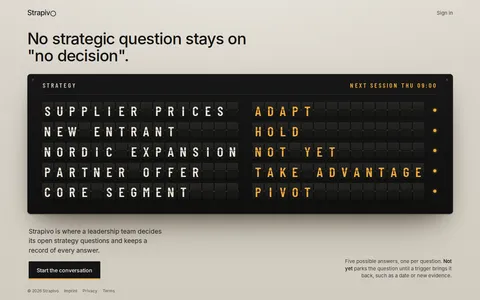
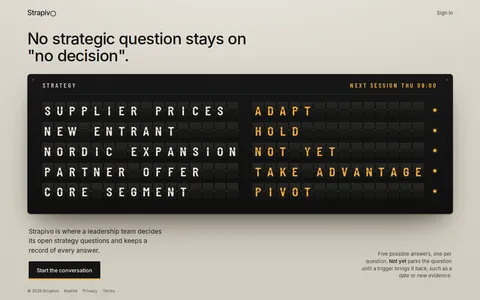
Update landing concept 87-departure-board

diff --git a/landings/87-departure-board/index.html b/landings/87-departure-board/index.html
@@ -59,7 +59,8 @@ h1{font-weight:500;font-size:clamp(30px,3.3vw,48px);line-height:1.08;letter-spac
 .h{position:absolute;left:0;right:0;height:50%;overflow:hidden;backface-visibility:hidden}
 .t{top:0;border-radius:3px 3px 0 0;background:linear-gradient(#262624,#1d1d1b)}
 .b{bottom:0;border-radius:0 0 3px 3px;background:linear-gradient(#1a1a18,#141413)}
-.h i{position:absolute;left:0;right:0;height:200%;font-style:normal;padding-top:calc(var(--h)*.04)}
+.h i,.b[data-c]::before{position:absolute;left:0;right:0;height:200%;font-style:normal;padding-top:calc(var(--h)*.04)}
+.b[data-c]::before{content:attr(data-c);bottom:0}
 .t i{top:0}.b i{bottom:0}
 .c::after{content:"";position:absolute;left:0;right:0;top:calc(50% - 1px);height:2px;background:linear-gradient(#000 50%,rgba(255,255,255,.05) 50%);z-index:6}
 .c::before{content:"";position:absolute;left:-1px;right:-1px;top:calc(50% - 2px);height:4px;z-index:7;
@@ -73,8 +74,8 @@ h1{font-weight:500;font-size:clamp(30px,3.3vw,48px);line-height:1.08;letter-spac
 .cta{display:inline-block;background:var(--ink);color:#f3efe6;text-decoration:none;font-weight:500;font-size:16px;padding:15px 24px;border-radius:2px;
   box-shadow:inset 0 -3px 0 var(--amber)}
 .cta:hover{background:#2a2925}
-.note{margin:0;font-size:15px;line-height:1.45;color:var(--mute);max-width:36ch;text-align:right}
-.note em{font-style:normal;color:var(--ink);font-weight:500}
+.note{margin:0;font-size:15px;line-height:1.45;color:var(--mute);max-width:32ch;text-align:right}
+.note em{white-space:nowrap;font-style:normal;color:var(--ink);font-weight:500}
 footer{padding:26px 0 18px;font-size:12px;color:#5a564f;display:flex;gap:16px;flex-wrap:wrap}
 footer a{text-decoration:none}
 footer a:hover{text-decoration:underline}
@@ -109,11 +110,11 @@ footer a:hover{text-decoration:underline}
     <div aria-hidden="true">
       <div class="hd"><span>STRATEGY</span><span class="nx">NEXT SESSION THU 09:00</span></div>
       <div class="rows">
-<div class="row" data-q="SUPPLIER PRICES" data-a="ADAPT"><span class="q"><span class="c"><span class="h t"><i>S</i></span><span class="h b"><i>S</i></span></span><span class="c"><span class="h t"><i>U</i></span><span class="h b"><i>U</i></span></span><span class="c"><span class="h t"><i>P</i></span><span class="h b"><i>P</i></span></span><span class="c"><span class="h t"><i>P</i></span><span class="h b"><i>P</i></span></span><span class="c"><span class="h t"><i>L</i></span><span class="h b"><i>L</i></span></span><span class="c"><span class="h t"><i>I</i></span><span class="h b"><i>I</i></span></span><span class="c"><span class="h t"><i>E</i></span><span class="h b"><i>E</i></span></span><span class="c"><span class="h t"><i>R</i></span><span class="h b"><i>R</i></span></span><span class="c"><span class="h t"><i>&nbsp;</i></span><span class="h b"><i>&nbsp;</i></span></span><span class="c"><span class="h t"><i>P</i></span><span class="h b"><i>P</i></span></span><span class="c"><span class="h t"><i>R</i></span><span class="h b"><i>R</i></span></span><span class="c"><span class="h t"><i>I</i></span><span class="h b"><i>I</i></span></span><span class="c"><span class="h t"><i>C</i></span><span class="h b"><i>C</i></span></span><span class="c"><span class="h t"><i>E</i></span><span class="h b"><i>E</i></span></span><span class="c"><span class="h t"><i>S</i></span><span class="h b"><i>S</i></span></span><span class="c"><span class="h t"><i>&nbsp;</i></span><span class="h b"><i>&nbsp;</i></span></span></span><span class="s"><span class="c"><span class="h t"><i>A</i></span><span class="h b"><i>A</i></span></span><span class="c"><span class="h t"><i>D</i></span><span class="h b"><i>D</i></span></span><span class="c"><span class="h t"><i>A</i></span><span class="h b"><i>A</i></span></span><span class="c"><span class="h t"><i>P</i></span><span class="h b"><i>P</i></span></span><span class="c"><span class="h t"><i>T</i></span><span class="h b"><i>T</i></span></span><span class="c"><span class="h t"><i>&nbsp;</i></span><span class="h b"><i>&nbsp;</i></span></span><span class="c"><span class="h t"><i>&nbsp;</i></span><span class="h b"><i>&nbsp;</i></span></span><span class="c"><span class="h t"><i>&nbsp;</i></span><span class="h b"><i>&nbsp;</i></span></span><span class="c"><span class="h t"><i>&nbsp;</i></span><span class="h b"><i>&nbsp;</i></span></span><span class="c"><span class="h t"><i>&nbsp;</i></span><span class="h b"><i>&nbsp;</i></span></span><span class="c"><span class="h t"><i>&nbsp;</i></span><span class="h b"><i>&nbsp;</i></span></span><span class="c"><span class="h t"><i>&nbsp;</i></span><span class="h b"><i>&nbsp;</i></span></span><span class="c"><span class="h t"><i>&nbsp;</i></span><span class="h b"><i>&nbsp;</i></span></span><span class="c"><span class="h t"><i>&nbsp;</i></span><span class="h b"><i>&nbsp;</i></span></span></span><span class="led on"></span></div>
-<div class="row" data-q="NEW ENTRANT" data-a="HOLD"><span class="q"><span class="c"><span class="h t"><i>N</i></span><span class="h b"><i>N</i></span></span><span class="c"><span class="h t"><i>E</i></span><span class="h b"><i>E</i></span></span><span class="c"><span class="h t"><i>W</i></span><span class="h b"><i>W</i></span></span><span class="c"><span class="h t"><i>&nbsp;</i></span><span class="h b"><i>&nbsp;</i></span></span><span class="c"><span class="h t"><i>E</i></span><span class="h b"><i>E</i></span></span><span class="c"><span class="h t"><i>N</i></span><span class="h b"><i>N</i></span></span><span class="c"><span class="h t"><i>T</i></span><span class="h b"><i>T</i></span></span><span class="c"><span class="h t"><i>R</i></span><span class="h b"><i>R</i></span></span><span class="c"><span class="h t"><i>A</i></span><span class="h b"><i>A</i></span></span><span class="c"><span class="h t"><i>N</i></span><span class="h b"><i>N</i></span></span><span class="c"><span class="h t"><i>T</i></span><span class="h b"><i>T</i></span></span><span class="c"><span class="h t"><i>&nbsp;</i></span><span class="h b"><i>&nbsp;</i></span></span><span class="c"><span class="h t"><i>&nbsp;</i></span><span class="h b"><i>&nbsp;</i></span></span><span class="c"><span class="h t"><i>&nbsp;</i></span><span class="h b"><i>&nbsp;</i></span></span><span class="c"><span class="h t"><i>&nbsp;</i></span><span class="h b"><i>&nbsp;</i></span></span><span class="c"><span class="h t"><i>&nbsp;</i></span><span class="h b"><i>&nbsp;</i></span></span></span><span class="s"><span class="c"><span class="h t"><i>H</i></span><span class="h b"><i>H</i></span></span><span class="c"><span class="h t"><i>O</i></span><span class="h b"><i>O</i></span></span><span class="c"><span class="h t"><i>L</i></span><span class="h b"><i>L</i></span></span><span class="c"><span class="h t"><i>D</i></span><span class="h b"><i>D</i></span></span><span class="c"><span class="h t"><i>&nbsp;</i></span><span class="h b"><i>&nbsp;</i></span></span><span class="c"><span class="h t"><i>&nbsp;</i></span><span class="h b"><i>&nbsp;</i></span></span><span class="c"><span class="h t"><i>&nbsp;</i></span><span class="h b"><i>&nbsp;</i></span></span><span class="c"><span class="h t"><i>&nbsp;</i></span><span class="h b"><i>&nbsp;</i></span></span><span class="c"><span class="h t"><i>&nbsp;</i></span><span class="h b"><i>&nbsp;</i></span></span><span class="c"><span class="h t"><i>&nbsp;</i></span><span class="h b"><i>&nbsp;</i></span></span><span class="c"><span class="h t"><i>&nbsp;</i></span><span class="h b"><i>&nbsp;</i></span></span><span class="c"><span class="h t"><i>&nbsp;</i></span><span class="h b"><i>&nbsp;</i></span></span><span class="c"><span class="h t"><i>&nbsp;</i></span><span class="h b"><i>&nbsp;</i></span></span><span class="c"><span class="h t"><i>&nbsp;</i></span><span class="h b"><i>&nbsp;</i></span></span></span><span class="led on"></span></div>
-<div class="row" data-q="NORDIC EXPANSION" data-a="NOT YET"><span class="q"><span class="c"><span class="h t"><i>N</i></span><span class="h b"><i>N</i></span></span><span class="c"><span class="h t"><i>O</i></span><span class="h b"><i>O</i></span></span><span class="c"><span class="h t"><i>R</i></span><span class="h b"><i>R</i></span></span><span class="c"><span class="h t"><i>D</i></span><span class="h b"><i>D</i></span></span><span class="c"><span class="h t"><i>I</i></span><span class="h b"><i>I</i></span></span><span class="c"><span class="h t"><i>C</i></span><span class="h b"><i>C</i></span></span><span class="c"><span class="h t"><i>&nbsp;</i></span><span class="h b"><i>&nbsp;</i></span></span><span class="c"><span class="h t"><i>E</i></span><span class="h b"><i>E</i></span></span><span class="c"><span class="h t"><i>X</i></span><span class="h b"><i>X</i></span></span><span class="c"><span class="h t"><i>P</i></span><span class="h b"><i>P</i></span></span><span class="c"><span class="h t"><i>A</i></span><span class="h b"><i>A</i></span></span><span class="c"><span class="h t"><i>N</i></span><span class="h b"><i>N</i></span></span><span class="c"><span class="h t"><i>S</i></span><span class="h b"><i>S</i></span></span><span class="c"><span class="h t"><i>I</i></span><span class="h b"><i>I</i></span></span><span class="c"><span class="h t"><i>O</i></span><span class="h b"><i>O</i></span></span><span class="c"><span class="h t"><i>N</i></span><span class="h b"><i>N</i></span></span></span><span class="s"><span class="c"><span class="h t"><i>N</i></span><span class="h b"><i>N</i></span></span><span class="c"><span class="h t"><i>O</i></span><span class="h b"><i>O</i></span></span><span class="c"><span class="h t"><i>T</i></span><span class="h b"><i>T</i></span></span><span class="c"><span class="h t"><i>&nbsp;</i></span><span class="h b"><i>&nbsp;</i></span></span><span class="c"><span class="h t"><i>Y</i></span><span class="h b"><i>Y</i></span></span><span class="c"><span class="h t"><i>E</i></span><span class="h b"><i>E</i></span></span><span class="c"><span class="h t"><i>T</i></span><span class="h b"><i>T</i></span></span><span class="c"><span class="h t"><i>&nbsp;</i></span><span class="h b"><i>&nbsp;</i></span></span><span class="c"><span class="h t"><i>&nbsp;</i></span><span class="h b"><i>&nbsp;</i></span></span><span class="c"><span class="h t"><i>&nbsp;</i></span><span class="h b"><i>&nbsp;</i></span></span><span class="c"><span class="h t"><i>&nbsp;</i></span><span class="h b"><i>&nbsp;</i></span></span><span class="c"><span class="h t"><i>&nbsp;</i></span><span class="h b"><i>&nbsp;</i></span></span><span class="c"><span class="h t"><i>&nbsp;</i></span><span class="h b"><i>&nbsp;</i></span></span><span class="c"><span class="h t"><i>&nbsp;</i></span><span class="h b"><i>&nbsp;</i></span></span></span><span class="led on"></span></div>
-<div class="row" data-q="PARTNER OFFER" data-a="TAKE ADVANTAGE"><span class="q"><span class="c"><span class="h t"><i>P</i></span><span class="h b"><i>P</i></span></span><span class="c"><span class="h t"><i>A</i></span><span class="h b"><i>A</i></span></span><span class="c"><span class="h t"><i>R</i></span><span class="h b"><i>R</i></span></span><span class="c"><span class="h t"><i>T</i></span><span class="h b"><i>T</i></span></span><span class="c"><span class="h t"><i>N</i></span><span class="h b"><i>N</i></span></span><span class="c"><span class="h t"><i>E</i></span><span class="h b"><i>E</i></span></span><span class="c"><span class="h t"><i>R</i></span><span class="h b"><i>R</i></span></span><span class="c"><span class="h t"><i>&nbsp;</i></span><span class="h b"><i>&nbsp;</i></span></span><span class="c"><span class="h t"><i>O</i></span><span class="h b"><i>O</i></span></span><span class="c"><span class="h t"><i>F</i></span><span class="h b"><i>F</i></span></span><span class="c"><span class="h t"><i>F</i></span><span class="h b"><i>F</i></span></span><span class="c"><span class="h t"><i>E</i></span><span class="h b"><i>E</i></span></span><span class="c"><span class="h t"><i>R</i></span><span class="h b"><i>R</i></span></span><span class="c"><span class="h t"><i>&nbsp;</i></span><span class="h b"><i>&nbsp;</i></span></span><span class="c"><span class="h t"><i>&nbsp;</i></span><span class="h b"><i>&nbsp;</i></span></span><span class="c"><span class="h t"><i>&nbsp;</i></span><span class="h b"><i>&nbsp;</i></span></span></span><span class="s"><span class="c"><span class="h t"><i>T</i></span><span class="h b"><i>T</i></span></span><span class="c"><span class="h t"><i>A</i></span><span class="h b"><i>A</i></span></span><span class="c"><span class="h t"><i>K</i></span><span class="h b"><i>K</i></span></span><span class="c"><span class="h t"><i>E</i></span><span class="h b"><i>E</i></span></span><span class="c"><span class="h t"><i>&nbsp;</i></span><span class="h b"><i>&nbsp;</i></span></span><span class="c"><span class="h t"><i>A</i></span><span class="h b"><i>A</i></span></span><span class="c"><span class="h t"><i>D</i></span><span class="h b"><i>D</i></span></span><span class="c"><span class="h t"><i>V</i></span><span class="h b"><i>V</i></span></span><span class="c"><span class="h t"><i>A</i></span><span class="h b"><i>A</i></span></span><span class="c"><span class="h t"><i>N</i></span><span class="h b"><i>N</i></span></span><span class="c"><span class="h t"><i>T</i></span><span class="h b"><i>T</i></span></span><span class="c"><span class="h t"><i>A</i></span><span class="h b"><i>A</i></span></span><span class="c"><span class="h t"><i>G</i></span><span class="h b"><i>G</i></span></span><span class="c"><span class="h t"><i>E</i></span><span class="h b"><i>E</i></span></span></span><span class="led on"></span></div>
-<div class="row" data-q="CORE SEGMENT" data-a="PIVOT"><span class="q"><span class="c"><span class="h t"><i>C</i></span><span class="h b"><i>C</i></span></span><span class="c"><span class="h t"><i>O</i></span><span class="h b"><i>O</i></span></span><span class="c"><span class="h t"><i>R</i></span><span class="h b"><i>R</i></span></span><span class="c"><span class="h t"><i>E</i></span><span class="h b"><i>E</i></span></span><span class="c"><span class="h t"><i>&nbsp;</i></span><span class="h b"><i>&nbsp;</i></span></span><span class="c"><span class="h t"><i>S</i></span><span class="h b"><i>S</i></span></span><span class="c"><span class="h t"><i>E</i></span><span class="h b"><i>E</i></span></span><span class="c"><span class="h t"><i>G</i></span><span class="h b"><i>G</i></span></span><span class="c"><span class="h t"><i>M</i></span><span class="h b"><i>M</i></span></span><span class="c"><span class="h t"><i>E</i></span><span class="h b"><i>E</i></span></span><span class="c"><span class="h t"><i>N</i></span><span class="h b"><i>N</i></span></span><span class="c"><span class="h t"><i>T</i></span><span class="h b"><i>T</i></span></span><span class="c"><span class="h t"><i>&nbsp;</i></span><span class="h b"><i>&nbsp;</i></span></span><span class="c"><span class="h t"><i>&nbsp;</i></span><span class="h b"><i>&nbsp;</i></span></span><span class="c"><span class="h t"><i>&nbsp;</i></span><span class="h b"><i>&nbsp;</i></span></span><span class="c"><span class="h t"><i>&nbsp;</i></span><span class="h b"><i>&nbsp;</i></span></span></span><span class="s"><span class="c"><span class="h t"><i>P</i></span><span class="h b"><i>P</i></span></span><span class="c"><span class="h t"><i>I</i></span><span class="h b"><i>I</i></span></span><span class="c"><span class="h t"><i>V</i></span><span class="h b"><i>V</i></span></span><span class="c"><span class="h t"><i>O</i></span><span class="h b"><i>O</i></span></span><span class="c"><span class="h t"><i>T</i></span><span class="h b"><i>T</i></span></span><span class="c"><span class="h t"><i>&nbsp;</i></span><span class="h b"><i>&nbsp;</i></span></span><span class="c"><span class="h t"><i>&nbsp;</i></span><span class="h b"><i>&nbsp;</i></span></span><span class="c"><span class="h t"><i>&nbsp;</i></span><span class="h b"><i>&nbsp;</i></span></span><span class="c"><span class="h t"><i>&nbsp;</i></span><span class="h b"><i>&nbsp;</i></span></span><span class="c"><span class="h t"><i>&nbsp;</i></span><span class="h b"><i>&nbsp;</i></span></span><span class="c"><span class="h t"><i>&nbsp;</i></span><span class="h b"><i>&nbsp;</i></span></span><span class="c"><span class="h t"><i>&nbsp;</i></span><span class="h b"><i>&nbsp;</i></span></span><span class="c"><span class="h t"><i>&nbsp;</i></span><span class="h b"><i>&nbsp;</i></span></span><span class="c"><span class="h t"><i>&nbsp;</i></span><span class="h b"><i>&nbsp;</i></span></span></span><span class="led on"></span></div>
+<div class="row" data-q="SUPPLIER PRICES" data-a="ADAPT"><span class="q"><span class="c"><span class="h t"><i>S</i></span><span class="h b" data-c="S"></span></span><span class="c"><span class="h t"><i>U</i></span><span class="h b" data-c="U"></span></span><span class="c"><span class="h t"><i>P</i></span><span class="h b" data-c="P"></span></span><span class="c"><span class="h t"><i>P</i></span><span class="h b" data-c="P"></span></span><span class="c"><span class="h t"><i>L</i></span><span class="h b" data-c="L"></span></span><span class="c"><span class="h t"><i>I</i></span><span class="h b" data-c="I"></span></span><span class="c"><span class="h t"><i>E</i></span><span class="h b" data-c="E"></span></span><span class="c"><span class="h t"><i>R</i></span><span class="h b" data-c="R"></span></span><span class="c"><span class="h t"><i>&#160;</i></span><span class="h b" data-c="&#160;"></span></span><span class="c"><span class="h t"><i>P</i></span><span class="h b" data-c="P"></span></span><span class="c"><span class="h t"><i>R</i></span><span class="h b" data-c="R"></span></span><span class="c"><span class="h t"><i>I</i></span><span class="h b" data-c="I"></span></span><span class="c"><span class="h t"><i>C</i></span><span class="h b" data-c="C"></span></span><span class="c"><span class="h t"><i>E</i></span><span class="h b" data-c="E"></span></span><span class="c"><span class="h t"><i>S</i></span><span class="h b" data-c="S"></span></span><span class="c"><span class="h t"><i>&#160;</i></span><span class="h b" data-c="&#160;"></span></span></span><span class="s"><span class="c"><span class="h t"><i>A</i></span><span class="h b" data-c="A"></span></span><span class="c"><span class="h t"><i>D</i></span><span class="h b" data-c="D"></span></span><span class="c"><span class="h t"><i>A</i></span><span class="h b" data-c="A"></span></span><span class="c"><span class="h t"><i>P</i></span><span class="h b" data-c="P"></span></span><span class="c"><span class="h t"><i>T</i></span><span class="h b" data-c="T"></span></span><span class="c"><span class="h t"><i>&#160;</i></span><span class="h b" data-c="&#160;"></span></span><span class="c"><span class="h t"><i>&#160;</i></span><span class="h b" data-c="&#160;"></span></span><span class="c"><span class="h t"><i>&#160;</i></span><span class="h b" data-c="&#160;"></span></span><span class="c"><span class="h t"><i>&#160;</i></span><span class="h b" data-c="&#160;"></span></span><span class="c"><span class="h t"><i>&#160;</i></span><span class="h b" data-c="&#160;"></span></span><span class="c"><span class="h t"><i>&#160;</i></span><span class="h b" data-c="&#160;"></span></span><span class="c"><span class="h t"><i>&#160;</i></span><span class="h b" data-c="&#160;"></span></span><span class="c"><span class="h t"><i>&#160;</i></span><span class="h b" data-c="&#160;"></span></span><span class="c"><span class="h t"><i>&#160;</i></span><span class="h b" data-c="&#160;"></span></span></span><span class="led on"></span></div>
+<div class="row" data-q="NEW ENTRANT" data-a="HOLD"><span class="q"><span class="c"><span class="h t"><i>N</i></span><span class="h b" data-c="N"></span></span><span class="c"><span class="h t"><i>E</i></span><span class="h b" data-c="E"></span></span><span class="c"><span class="h t"><i>W</i></span><span class="h b" data-c="W"></span></span><span class="c"><span class="h t"><i>&#160;</i></span><span class="h b" data-c="&#160;"></span></span><span class="c"><span class="h t"><i>E</i></span><span class="h b" data-c="E"></span></span><span class="c"><span class="h t"><i>N</i></span><span class="h b" data-c="N"></span></span><span class="c"><span class="h t"><i>T</i></span><span class="h b" data-c="T"></span></span><span class="c"><span class="h t"><i>R</i></span><span class="h b" data-c="R"></span></span><span class="c"><span class="h t"><i>A</i></span><span class="h b" data-c="A"></span></span><span class="c"><span class="h t"><i>N</i></span><span class="h b" data-c="N"></span></span><span class="c"><span class="h t"><i>T</i></span><span class="h b" data-c="T"></span></span><span class="c"><span class="h t"><i>&#160;</i></span><span class="h b" data-c="&#160;"></span></span><span class="c"><span class="h t"><i>&#160;</i></span><span class="h b" data-c="&#160;"></span></span><span class="c"><span class="h t"><i>&#160;</i></span><span class="h b" data-c="&#160;"></span></span><span class="c"><span class="h t"><i>&#160;</i></span><span class="h b" data-c="&#160;"></span></span><span class="c"><span class="h t"><i>&#160;</i></span><span class="h b" data-c="&#160;"></span></span></span><span class="s"><span class="c"><span class="h t"><i>H</i></span><span class="h b" data-c="H"></span></span><span class="c"><span class="h t"><i>O</i></span><span class="h b" data-c="O"></span></span><span class="c"><span class="h t"><i>L</i></span><span class="h b" data-c="L"></span></span><span class="c"><span class="h t"><i>D</i></span><span class="h b" data-c="D"></span></span><span class="c"><span class="h t"><i>&#160;</i></span><span class="h b" data-c="&#160;"></span></span><span class="c"><span class="h t"><i>&#160;</i></span><span class="h b" data-c="&#160;"></span></span><span class="c"><span class="h t"><i>&#160;</i></span><span class="h b" data-c="&#160;"></span></span><span class="c"><span class="h t"><i>&#160;</i></span><span class="h b" data-c="&#160;"></span></span><span class="c"><span class="h t"><i>&#160;</i></span><span class="h b" data-c="&#160;"></span></span><span class="c"><span class="h t"><i>&#160;</i></span><span class="h b" data-c="&#160;"></span></span><span class="c"><span class="h t"><i>&#160;</i></span><span class="h b" data-c="&#160;"></span></span><span class="c"><span class="h t"><i>&#160;</i></span><span class="h b" data-c="&#160;"></span></span><span class="c"><span class="h t"><i>&#160;</i></span><span class="h b" data-c="&#160;"></span></span><span class="c"><span class="h t"><i>&#160;</i></span><span class="h b" data-c="&#160;"></span></span></span><span class="led on"></span></div>
+<div class="row" data-q="NORDIC EXPANSION" data-a="NOT YET"><span class="q"><span class="c"><span class="h t"><i>N</i></span><span class="h b" data-c="N"></span></span><span class="c"><span class="h t"><i>O</i></span><span class="h b" data-c="O"></span></span><span class="c"><span class="h t"><i>R</i></span><span class="h b" data-c="R"></span></span><span class="c"><span class="h t"><i>D</i></span><span class="h b" data-c="D"></span></span><span class="c"><span class="h t"><i>I</i></span><span class="h b" data-c="I"></span></span><span class="c"><span class="h t"><i>C</i></span><span class="h b" data-c="C"></span></span><span class="c"><span class="h t"><i>&#160;</i></span><span class="h b" data-c="&#160;"></span></span><span class="c"><span class="h t"><i>E</i></span><span class="h b" data-c="E"></span></span><span class="c"><span class="h t"><i>X</i></span><span class="h b" data-c="X"></span></span><span class="c"><span class="h t"><i>P</i></span><span class="h b" data-c="P"></span></span><span class="c"><span class="h t"><i>A</i></span><span class="h b" data-c="A"></span></span><span class="c"><span class="h t"><i>N</i></span><span class="h b" data-c="N"></span></span><span class="c"><span class="h t"><i>S</i></span><span class="h b" data-c="S"></span></span><span class="c"><span class="h t"><i>I</i></span><span class="h b" data-c="I"></span></span><span class="c"><span class="h t"><i>O</i></span><span class="h b" data-c="O"></span></span><span class="c"><span class="h t"><i>N</i></span><span class="h b" data-c="N"></span></span></span><span class="s"><span class="c"><span class="h t"><i>N</i></span><span class="h b" data-c="N"></span></span><span class="c"><span class="h t"><i>O</i></span><span class="h b" data-c="O"></span></span><span class="c"><span class="h t"><i>T</i></span><span class="h b" data-c="T"></span></span><span class="c"><span class="h t"><i>&#160;</i></span><span class="h b" data-c="&#160;"></span></span><span class="c"><span class="h t"><i>Y</i></span><span class="h b" data-c="Y"></span></span><span class="c"><span class="h t"><i>E</i></span><span class="h b" data-c="E"></span></span><span class="c"><span class="h t"><i>T</i></span><span class="h b" data-c="T"></span></span><span class="c"><span class="h t"><i>&#160;</i></span><span class="h b" data-c="&#160;"></span></span><span class="c"><span class="h t"><i>&#160;</i></span><span class="h b" data-c="&#160;"></span></span><span class="c"><span class="h t"><i>&#160;</i></span><span class="h b" data-c="&#160;"></span></span><span class="c"><span class="h t"><i>&#160;</i></span><span class="h b" data-c="&#160;"></span></span><span class="c"><span class="h t"><i>&#160;</i></span><span class="h b" data-c="&#160;"></span></span><span class="c"><span class="h t"><i>&#160;</i></span><span class="h b" data-c="&#160;"></span></span><span class="c"><span class="h t"><i>&#160;</i></span><span class="h b" data-c="&#160;"></span></span></span><span class="led on"></span></div>
+<div class="row" data-q="PARTNER OFFER" data-a="TAKE ADVANTAGE"><span class="q"><span class="c"><span class="h t"><i>P</i></span><span class="h b" data-c="P"></span></span><span class="c"><span class="h t"><i>A</i></span><span class="h b" data-c="A"></span></span><span class="c"><span class="h t"><i>R</i></span><span class="h b" data-c="R"></span></span><span class="c"><span class="h t"><i>T</i></span><span class="h b" data-c="T"></span></span><span class="c"><span class="h t"><i>N</i></span><span class="h b" data-c="N"></span></span><span class="c"><span class="h t"><i>E</i></span><span class="h b" data-c="E"></span></span><span class="c"><span class="h t"><i>R</i></span><span class="h b" data-c="R"></span></span><span class="c"><span class="h t"><i>&#160;</i></span><span class="h b" data-c="&#160;"></span></span><span class="c"><span class="h t"><i>O</i></span><span class="h b" data-c="O"></span></span><span class="c"><span class="h t"><i>F</i></span><span class="h b" data-c="F"></span></span><span class="c"><span class="h t"><i>F</i></span><span class="h b" data-c="F"></span></span><span class="c"><span class="h t"><i>E</i></span><span class="h b" data-c="E"></span></span><span class="c"><span class="h t"><i>R</i></span><span class="h b" data-c="R"></span></span><span class="c"><span class="h t"><i>&#160;</i></span><span class="h b" data-c="&#160;"></span></span><span class="c"><span class="h t"><i>&#160;</i></span><span class="h b" data-c="&#160;"></span></span><span class="c"><span class="h t"><i>&#160;</i></span><span class="h b" data-c="&#160;"></span></span></span><span class="s"><span class="c"><span class="h t"><i>T</i></span><span class="h b" data-c="T"></span></span><span class="c"><span class="h t"><i>A</i></span><span class="h b" data-c="A"></span></span><span class="c"><span class="h t"><i>K</i></span><span class="h b" data-c="K"></span></span><span class="c"><span class="h t"><i>E</i></span><span class="h b" data-c="E"></span></span><span class="c"><span class="h t"><i>&#160;</i></span><span class="h b" data-c="&#160;"></span></span><span class="c"><span class="h t"><i>A</i></span><span class="h b" data-c="A"></span></span><span class="c"><span class="h t"><i>D</i></span><span class="h b" data-c="D"></span></span><span class="c"><span class="h t"><i>V</i></span><span class="h b" data-c="V"></span></span><span class="c"><span class="h t"><i>A</i></span><span class="h b" data-c="A"></span></span><span class="c"><span class="h t"><i>N</i></span><span class="h b" data-c="N"></span></span><span class="c"><span class="h t"><i>T</i></span><span class="h b" data-c="T"></span></span><span class="c"><span class="h t"><i>A</i></span><span class="h b" data-c="A"></span></span><span class="c"><span class="h t"><i>G</i></span><span class="h b" data-c="G"></span></span><span class="c"><span class="h t"><i>E</i></span><span class="h b" data-c="E"></span></span></span><span class="led on"></span></div>
+<div class="row" data-q="CORE SEGMENT" data-a="PIVOT"><span class="q"><span class="c"><span class="h t"><i>C</i></span><span class="h b" data-c="C"></span></span><span class="c"><span class="h t"><i>O</i></span><span class="h b" data-c="O"></span></span><span class="c"><span class="h t"><i>R</i></span><span class="h b" data-c="R"></span></span><span class="c"><span class="h t"><i>E</i></span><span class="h b" data-c="E"></span></span><span class="c"><span class="h t"><i>&#160;</i></span><span class="h b" data-c="&#160;"></span></span><span class="c"><span class="h t"><i>S</i></span><span class="h b" data-c="S"></span></span><span class="c"><span class="h t"><i>E</i></span><span class="h b" data-c="E"></span></span><span class="c"><span class="h t"><i>G</i></span><span class="h b" data-c="G"></span></span><span class="c"><span class="h t"><i>M</i></span><span class="h b" data-c="M"></span></span><span class="c"><span class="h t"><i>E</i></span><span class="h b" data-c="E"></span></span><span class="c"><span class="h t"><i>N</i></span><span class="h b" data-c="N"></span></span><span class="c"><span class="h t"><i>T</i></span><span class="h b" data-c="T"></span></span><span class="c"><span class="h t"><i>&#160;</i></span><span class="h b" data-c="&#160;"></span></span><span class="c"><span class="h t"><i>&#160;</i></span><span class="h b" data-c="&#160;"></span></span><span class="c"><span class="h t"><i>&#160;</i></span><span class="h b" data-c="&#160;"></span></span><span class="c"><span class="h t"><i>&#160;</i></span><span class="h b" data-c="&#160;"></span></span></span><span class="s"><span class="c"><span class="h t"><i>P</i></span><span class="h b" data-c="P"></span></span><span class="c"><span class="h t"><i>I</i></span><span class="h b" data-c="I"></span></span><span class="c"><span class="h t"><i>V</i></span><span class="h b" data-c="V"></span></span><span class="c"><span class="h t"><i>O</i></span><span class="h b" data-c="O"></span></span><span class="c"><span class="h t"><i>T</i></span><span class="h b" data-c="T"></span></span><span class="c"><span class="h t"><i>&#160;</i></span><span class="h b" data-c="&#160;"></span></span><span class="c"><span class="h t"><i>&#160;</i></span><span class="h b" data-c="&#160;"></span></span><span class="c"><span class="h t"><i>&#160;</i></span><span class="h b" data-c="&#160;"></span></span><span class="c"><span class="h t"><i>&#160;</i></span><span class="h b" data-c="&#160;"></span></span><span class="c"><span class="h t"><i>&#160;</i></span><span class="h b" data-c="&#160;"></span></span><span class="c"><span class="h t"><i>&#160;</i></span><span class="h b" data-c="&#160;"></span></span><span class="c"><span class="h t"><i>&#160;</i></span><span class="h b" data-c="&#160;"></span></span><span class="c"><span class="h t"><i>&#160;</i></span><span class="h b" data-c="&#160;"></span></span><span class="c"><span class="h t"><i>&#160;</i></span><span class="h b" data-c="&#160;"></span></span></span><span class="led on"></span></div>
       </div>
     </div>
   </div>
@@ -138,14 +139,14 @@ footer a:hover{text-decoration:underline}
     qc: [...r.querySelectorAll(".q .c")].map(mk), sc: [...r.querySelectorAll(".s .c")].map(mk)
   }));
   function mk(el) {
-    const t = el.querySelector(".t i"), b = el.querySelector(".b i");
+    const t = el.querySelector(".t i"), b = el.querySelector(".b");
     const ft = document.createElement("span"); ft.className = "h t fl"; ft.innerHTML = "<i></i>"; ft.hidden = true;
     const fb = document.createElement("span"); fb.className = "h b fl"; fb.innerHTML = "<i></i>"; fb.hidden = true;
     el.append(ft, fb);
     return { t, b, ft, fb, ftI: ft.firstChild, fbI: fb.firstChild, cur: t.textContent.replace(/ /, " "), busy: Promise.resolve() };
   }
   const show = ch => ch === " " ? " " : ch;
-  function set(c, ch) { c.cur = ch; c.t.textContent = c.b.textContent = show(ch); }
+  function set(c, ch) { c.cur = ch; c.t.textContent = c.b.dataset.c = show(ch); }
 
   // time that only runs while the board is on screen and the tab is visible
   let onScreen = true;
@@ -191,7 +192,7 @@ footer a:hover{text-decoration:underline}
     c.ft.hidden = true;
     c.fb.style.transform = "perspective(260px) rotateX(90deg)"; c.fb.hidden = false;
     await tween(p => { const e = Math.min(easeOut(p), 1.06); c.fb.style.transform = `perspective(260px) rotateX(${90 - 90 * e}deg)`; c.fb.style.filter = `brightness(${1.5 - .5 * Math.min(e, 1)})`; });
-    c.b.textContent = show(nx); c.cur = nx; c.fb.hidden = true;
+    c.b.dataset.c = show(nx); c.cur = nx; c.fb.hidden = true;
   }
   function flipTo(c, target, delay) {
     c.busy = c.busy.then(async () => {
